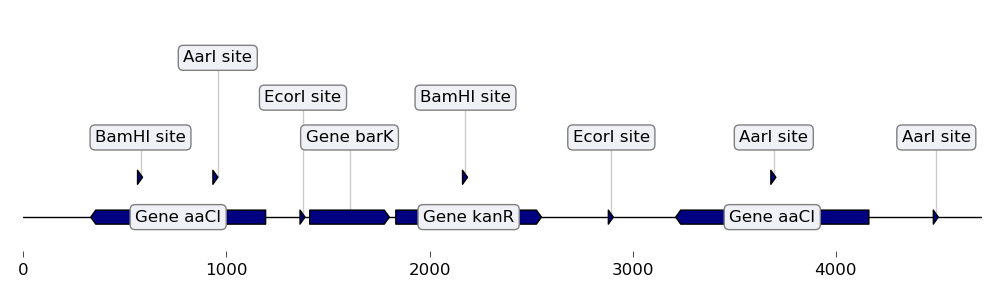
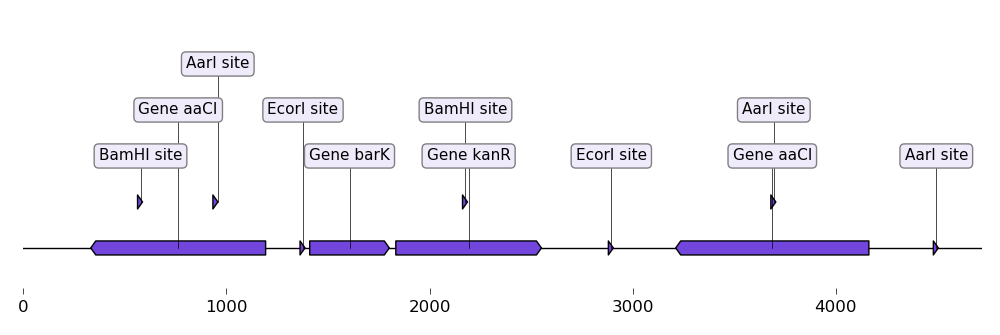
Removed method from_genbank_record. Updated examples and readme

diff --git a/dna_features_viewer/dna_features_viewer.py b/dna_features_viewer/dna_features_viewer.py
@@ -240,8 +240,6 @@ class GraphicRecord:
                         text=text, feature_level=level
                     ))
         annotations_levels = compute_features_levels(overflowing_annotations)
-        # for f in annotations_levels:
-        #     annotations_levels[f] += level_offset
         for feature, level in annotations_levels.items():
             text = feature.data["text"]
             x, y = text.get_position()
@@ -253,10 +251,10 @@ class GraphicRecord:
             ax.plot([x, fx], [new_y, fy], c="k", lw=0.5, zorder=1)
 
         self.finalize_ax(ax, max(features_levels.values()),
-                         0 if len(annotations_levels)==0 else
+                         0 if len(annotations_levels) == 0 else
                          max(annotations_levels.values()),
                          auto_figure_height)
-        return ax
+        return ax, annotations_levels
 
     def finalize_ax(self, ax, features_levels, annotations_levels,
                     auto_figure_height=False):
@@ -267,48 +265,6 @@ class GraphicRecord:
         if auto_figure_height:
             figure_width = ax.figure.get_size_inches()[0]
             ax.figure.set_size_inches(figure_width, 1.5 + 0.37 * ymax)
-
-    @classmethod
-    def from_biopython_record(cls, record, features_filter=None,
-                              features_properties=None):
-        """Create a new GraphicRecord from a BioPython Record object.
-
-        Parameters
-        ----------
-
-        record
-          A BioPython Record object
-
-        features_filter
-          A function (biofeature->bool) where biofeature is a Biopython Feature
-          object found in the record, and bool (True/False) indicates whether
-          the feature should be kept (True) of discarded (False).
-
-        features_properties
-          A function (biofeature->color) where biofeature is a Biopython
-          Feature object found in the record, and color is any
-          Matplotlib-compatible color format.
-
-        fun_label
-            A function (biofeature->label) where biofeature is a Biopython
-            Feature object found in the record, and label is a description
-            extracted from the feature.
-        """
-        if features_properties is None:
-            def features_properties(feature):
-                return dict(color="#7245dc", label=get_feature_label(feature))
-        if features_filter is None:
-            def features_filter(feature):
-                return True
-        features = [
-            GraphicFeature.from_biopython_feature(
-                feature, **features_properties(feature)
-            )
-            for feature in record.features
-            if feature.location is not None
-            if features_filter(feature)
-        ]
-        return cls(sequence_length=len(record.seq), features=features)
 
     def to_biopython_record(self):
         """
@@ -482,7 +438,7 @@ class BiopythonTranslator:
             if key in feature.qualifiers:
                 result = feature.qualifiers[key]
         if isinstance(result, list):
-            return "-".join(result)
+            return "|".join(result)
         else:
             return result
 

diff --git a/examples/from_genbank.py b/examples/from_genbank.py
@@ -1,11 +1,8 @@
-from dna_features_viewer import GraphicRecord
+from dna_features_viewer import BiopythonTranslator
 from Bio import SeqIO
-with open("example_sequence.gb", "r") as f:
-    record = SeqIO.read(f, "genbank")
-graphic_record = GraphicRecord.from_biopython_record(
-    record,
-    fun_label= lambda feature: feature.qualifiers["label"][0]
-)
-ax, _ = graphic_record.plot(fig_width=10)
+
+record = SeqIO.read("example_sequence.gb", "genbank")
+graphic_record = BiopythonTranslator().translate_record(record)
+ax, _ = graphic_record.plot(figure_width=10)
 ax.figure.tight_layout()
 ax.figure.savefig("from_genbank.png")

diff --git a/examples/by_hand.py b/examples/by_hand.py
@@ -20,12 +20,12 @@ features=[
 
 # PLOT AND EXPORT A LINEAR VIEW OF THE CONSTRUCT
 record = GraphicRecord(sequence_length=1000, features=features)
-ax = record.plot(fig_width=5)
+ax, _ = record.plot(figure_width=5)
 ax.figure.savefig("by_hand.png")
 
 
 # PLOT AND EXPORT A CIRCULAR VIEW OF THE CONSTRUCT
 circular_rec = CircularGraphicRecord(sequence_length=1000, features=features)
-ax2 = circular_rec.plot(fig_width=4)
+ax2, _ = circular_rec.plot(figure_width=4)
 ax2.figure.tight_layout()
 ax2.figure.savefig("by_hand_circular.png", bbox_inches="tight")
